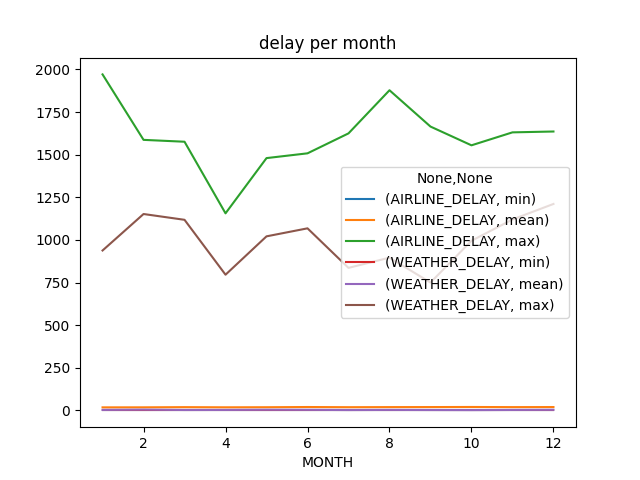
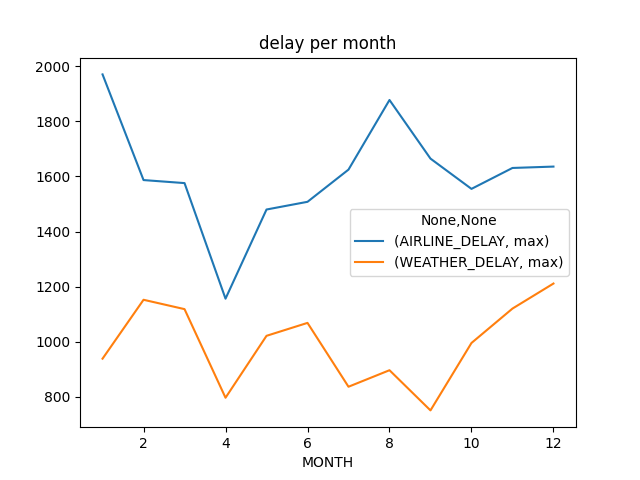
P2 Added graphs

diff --git a/practice_6/P2.py b/practice_6/P2.py
@@ -93,19 +93,40 @@ if __name__ == "__main__":
 
     # 2) DELAY BY MONTH
 
-    # df_del = df_plot.groupby(['MONTH'])[['AIRLINE_DELAY', 'WEATHER_DELAY']].agg({ 'AIRLINE_DELAY' : ['min', 'mean', 'max'],
-    #                                                                                'WEATHER_DELAY' : ['min', 'mean', 'max']})
+    # plt.figure(figsize=(16,6))
+    # df_del = df_plot.groupby(['MONTH'])[['AIRLINE_DELAY', 'WEATHER_DELAY']].agg({ 'AIRLINE_DELAY' : ['max'],
+    #                                                                                'WEATHER_DELAY' : ['max']})
     # plot =  df_del.plot(title="delay per month")
     # plot.get_figure().savefig(outfig.format("delay"))
 
     # 3) Air time by distance
+
     # fig, ax = plt.subplots()
 
-    # sns.boxplot(data=df_plot, x='DISTANCE', y='AIR_TIME')
+    # plt.figure(figsize=(30,5))
+    # #gr_obj = olympic.groupby(["Year", "Sex"], as_index=False)['Age'].mean()
+    # sns.set_style("ticks",{'axes.grid' : True})
+    # sns.lineplot(data=df_plot, x="DISTANCE", y="AIR_TIME").set(title='Distance and air time')
     # plt.savefig(outfig.format("airtime_by_dist"))
 
     # 4) pie destiantion
 
-    plot2 = df_plot['DESTINATION_AIRPORT'].value_counts().plot(kind='pie', title='Destination airport')
-    plot2.get_figure().savefig(outfig.format("pie_destination"))
+    # plot2 = df_plot['DESTINATION_AIRPORT'].head(20).value_counts().plot(kind='pie', title='Destination airport', autopct='%1.0f%%')
+    # plot2.get_figure().savefig(outfig.format("pie_destination"))
 
+    # 5) 
+
+    fig, ax = plt.subplots()
+
+    plt.figure(figsize=(20,10))
+    plt.title('Airtime per month')
+    # cmap="YlGnBu"
+    sns.heatmap(df_plot.pivot_table(values='AIR_TIME', index=['MONTH'], columns=['DAY'], aggfunc=np.mean), annot=True, fmt='.1f', annot_kws={"size":8}, cmap="Spectral", cbar=True);
+    plt.savefig(outfig.format("hitmap"))
+
+    # 6)
+
+    df_m = df_plot.groupby(['MONTH'])[['DISTANCE']].agg({'DISTANCE' : ['sum']})
+
+    plot2 = df_m.plot(kind='barh', title="Distance per month", figsize=(30,15))
+    plot2.get_figure().savefig(outfig.format("dpm"))
